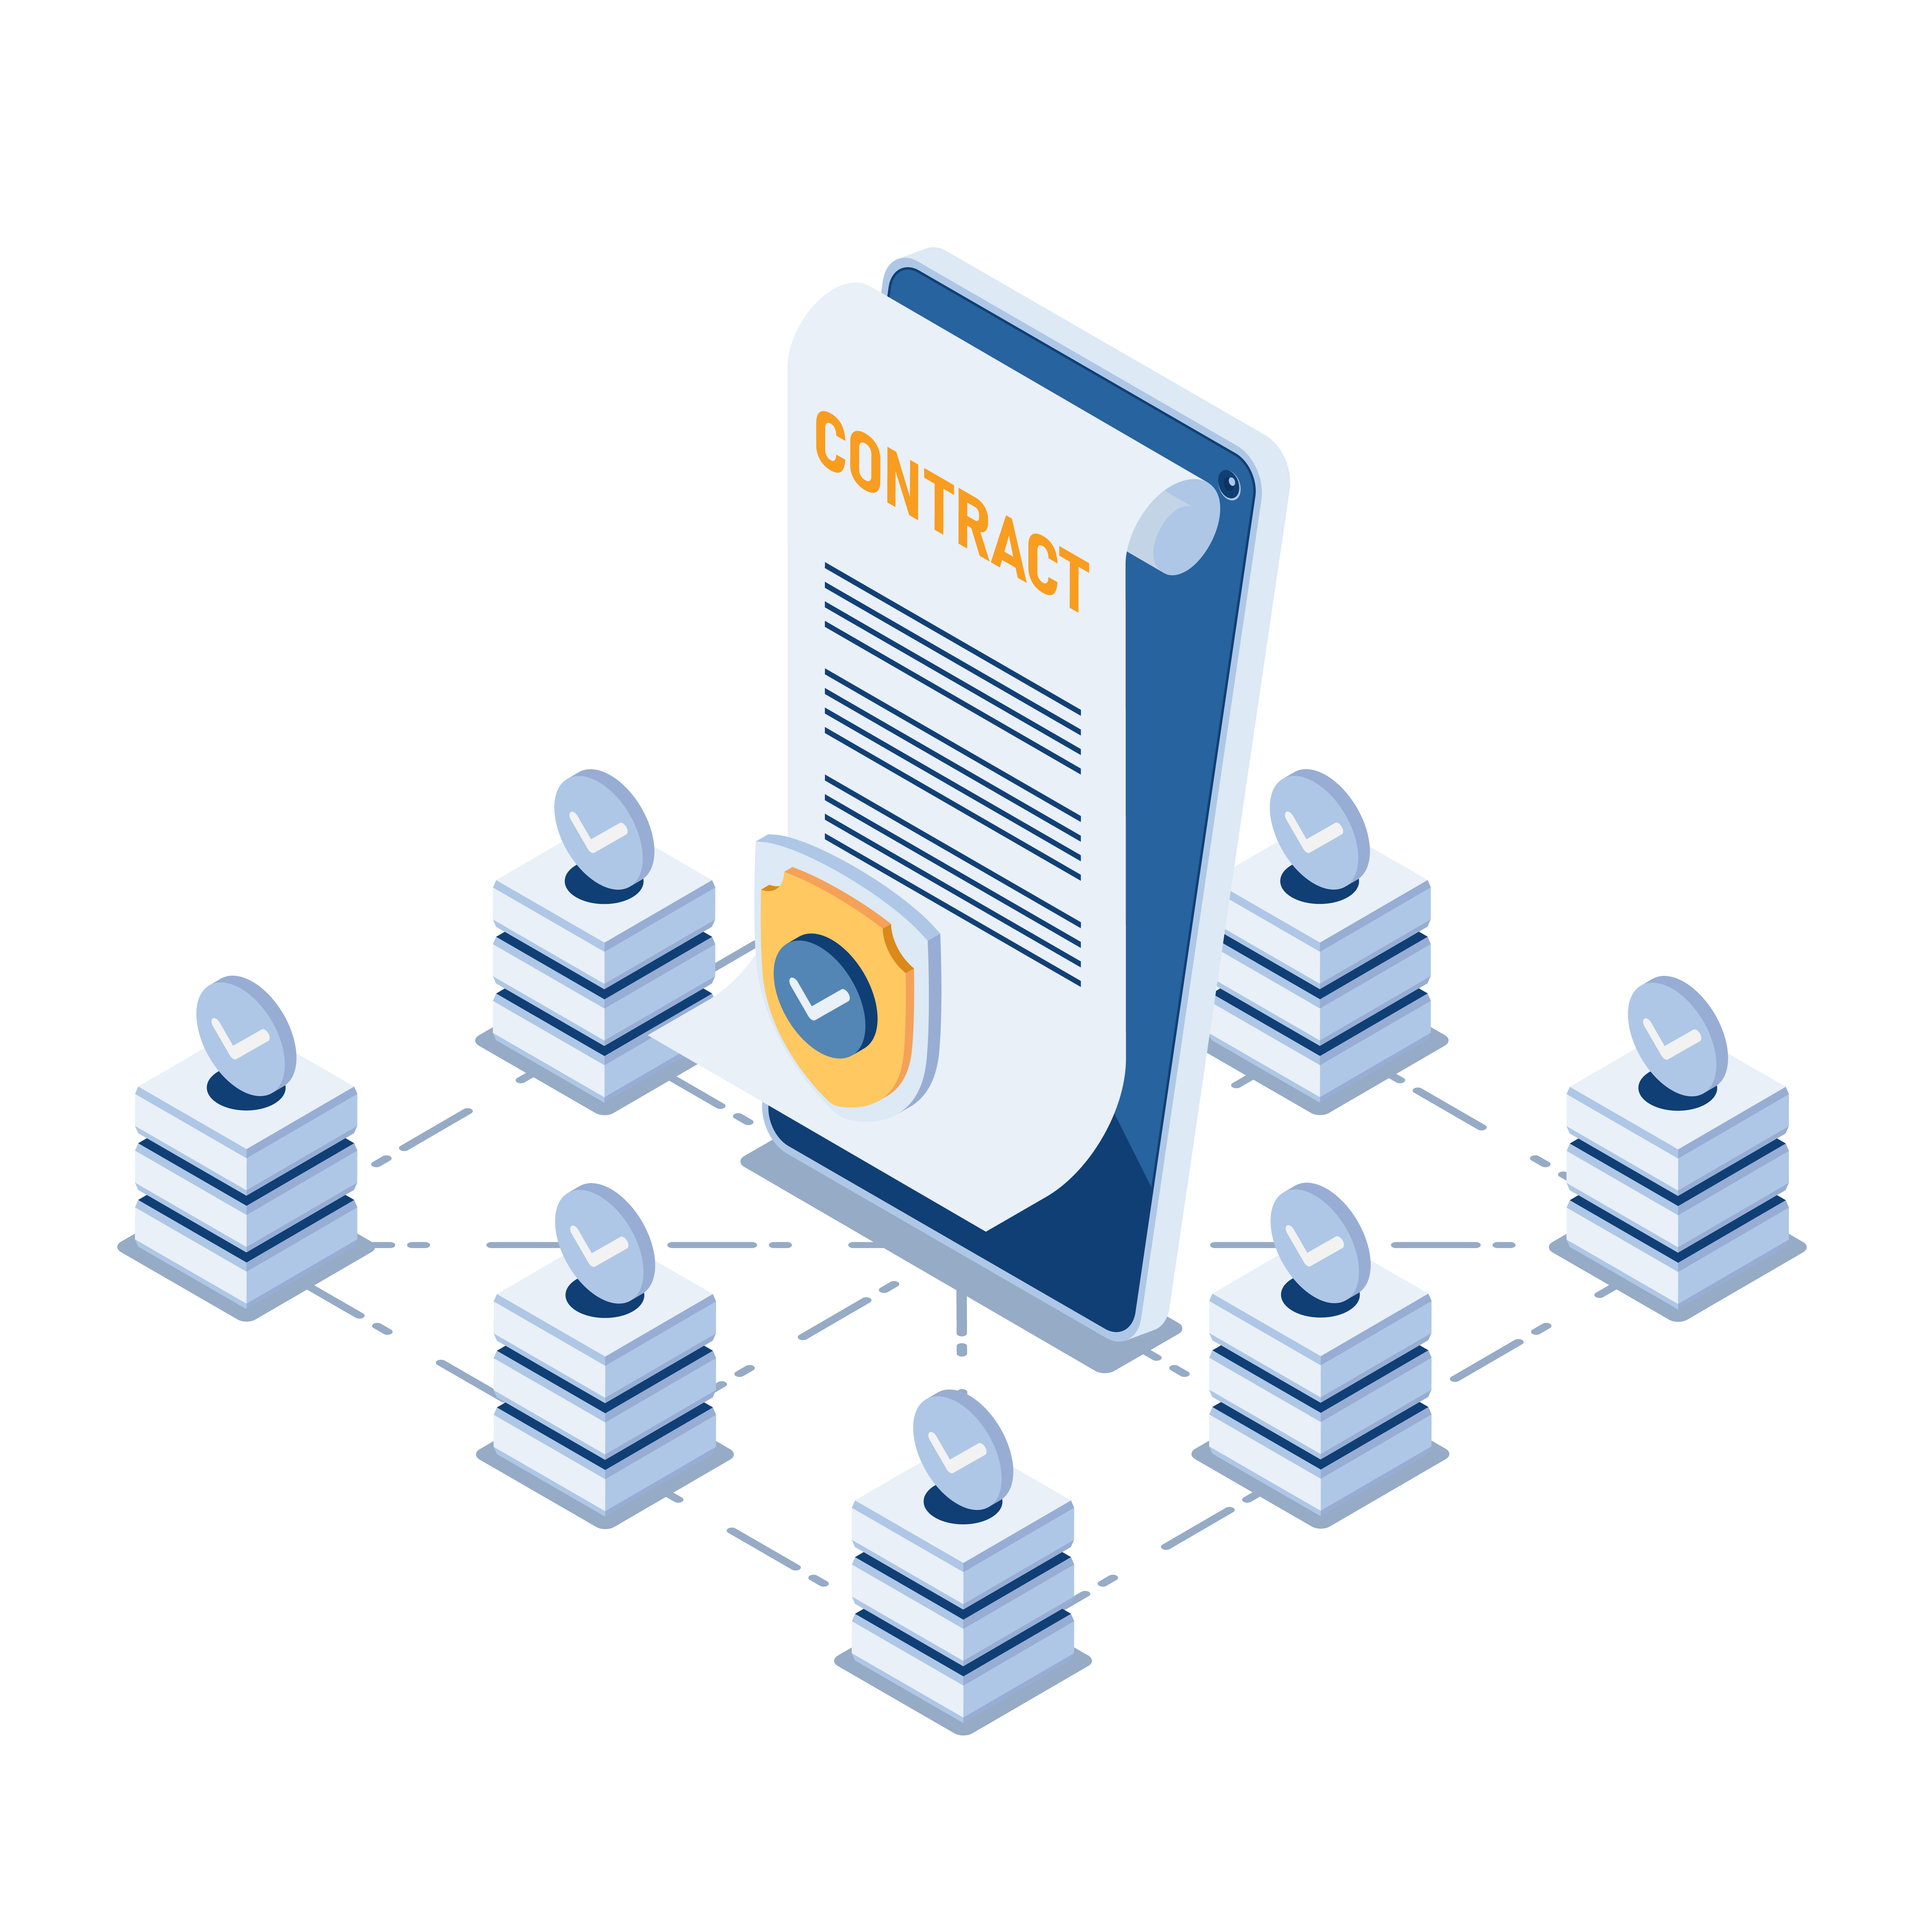
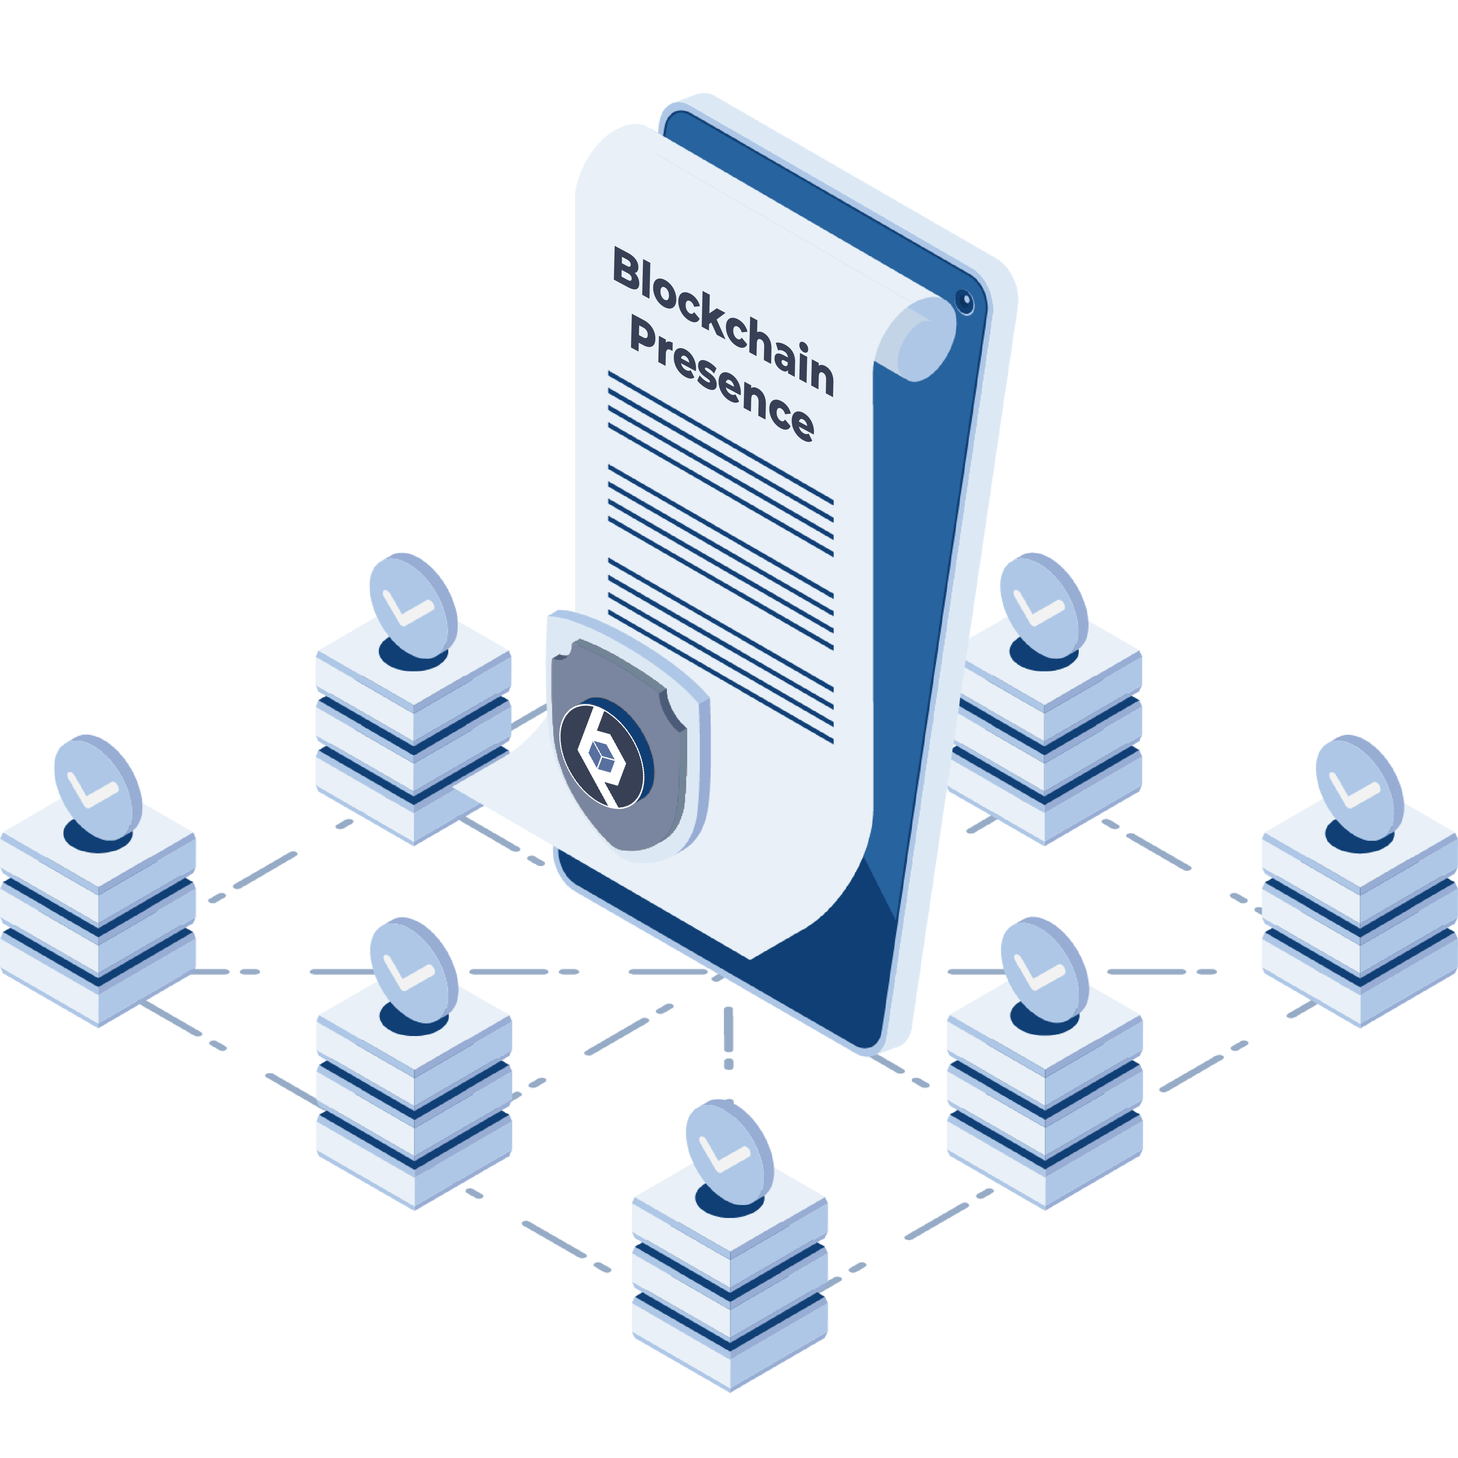
update for white theme, added downloads page and images

diff --git a/components/sections/home/Timeline.js b/components/sections/home/Timeline.js
@@ -4,7 +4,7 @@ const Timeline = (props) => {
   return (
     <>
       <div className="relative bg-[#5870a11c] h-full mx-auto mt-1 py-32">
-        <div class="custom-shape-divider-top-1650993069">
+        <div className="custom-shape-divider-top-1650993069">
           <svg
             data-name="Layer 1"
             xmlns="http://www.w3.org/2000/svg"
@@ -13,7 +13,7 @@ const Timeline = (props) => {
           >
             <path
               d="M1200 120L0 16.48 0 0 1200 0 1200 120z"
-              class="shape-fill"
+              className="shape-fill"
             ></path>
           </svg>
         </div>
@@ -43,13 +43,10 @@ const Timeline = (props) => {
                 animateIn="animate__fadeInRight"
               >
                 <h3 className="mb-3 text-xl font-bold text-gray-800">
-                  Founding of Blockchain Presence AG
+                  Research Project
                 </h3>
                 <p className="text-sm leading-snug tracking-wide text-gray-900 text-opacity-100">
-                  Blockchain Presence AG is a swiss corporation and an official
-                  spin-off of the University of Zurich, founded in December
-                  2020. We are located near the University of Zurich and the
-                  Crypto Valley Zug. // Dummy Text
+                  Research project started at the University of Zurich.{" "}
                 </p>
               </AnimationOnScroll>
             </div>
@@ -66,13 +63,10 @@ const Timeline = (props) => {
               className="order-1 md:w-5/12 mt-8 md:mt-0 px-6 py-4 bg-[#384056] rounded-lg shadow-xl"
             >
               <h3 className="mb-3 text-xl font-bold text-white">
-                Austrian Blockchain Award
+                Spin-Off of University of Zurich
               </h3>
               <p className="text-sm font-medium leading-snug tracking-wide text-white text-opacity-100">
-                Blockchain Presence AG is a swiss corporation and an official
-                spin-off of the University of Zurich, founded in December 2020.
-                We are located near the University of Zurich and the Crypto
-                Valley Zug. // Dummy Text
+                BCP becam an offical spin-off of the University of Zurich
               </p>
             </AnimationOnScroll>
           </div>
@@ -88,13 +82,10 @@ const Timeline = (props) => {
               animateIn="animate__fadeInRight"
             >
               <h3 className="mb-3 text-xl font-bold text-gray-800">
-                Dividends via Smart Contract
+                Austrian Blockchain Award
               </h3>
               <p className="text-sm leading-snug tracking-wide text-gray-900 text-opacity-100">
-                Blockchain Presence AG is a swiss corporation and an official
-                spin-off of the University of Zurich, founded in December 2020.
-                We are located near the University of Zurich and the Crypto
-                Valley Zug. // Dummy Text
+                BCP won the third place of the Austrian Blockchain Award{" "}
               </p>
             </AnimationOnScroll>
           </div>
@@ -112,18 +103,15 @@ const Timeline = (props) => {
             >
               {" "}
               <h3 className="mb-3 text-xl font-bold text-white">
-                Over 70 contributors
+                Dividends via Smart Contract
               </h3>
               <p className="text-sm font-medium leading-snug tracking-wide text-white text-opacity-100">
-                Blockchain Presence AG is a swiss corporation and an official
-                spin-off of the University of Zurich, founded in December 2020.
-                We are located near the University of Zurich and the Crypto
-                Valley Zug. // Dummy Text
+                First successful dividend payment via smart contract
               </p>
             </AnimationOnScroll>
           </div>
         </div>
-        <div class="custom-shape-divider-bottom-1650993162">
+        <div className="custom-shape-divider-bottom-1650993162">
           <svg
             data-name="Layer 1"
             xmlns="http://www.w3.org/2000/svg"
@@ -132,7 +120,7 @@ const Timeline = (props) => {
           >
             <path
               d="M1200 120L0 16.48 0 0 1200 0 1200 120z"
-              class="shape-fill"
+              className="shape-fill"
             ></path>
           </svg>
         </div>

diff --git a/pages/downloads.js b/pages/downloads.js
@@ -1,6 +1,7 @@
 import { useRouter } from "next/router";
 import TitleSection from "../components/TitleSection";
-
+import Image from "next/image";
+import Button from "../components/Button";
 const Downloads = () => {
   const router = useRouter();
 
@@ -10,6 +11,39 @@ const Downloads = () => {
         title="Downloads"
         subTitle="Here you can find additional information about us"
       />
+      <div className="my-20">
+        <div className="relative flex w-full h-[300px] space-x-20   justify-center ">
+          <div className="flex flex-col items-center justify-center w-1/4 space-y-10 font-bold text-center ">
+            <div>Download our Whitepaper</div>
+            <Button>Download</Button>
+          </div>
+          <div className="relative w-1/4 h-full">
+            <Image
+              src="/img/whitepaper.jpg"
+              alt=""
+              layout="fill"
+              objectFit="contain"
+            />
+          </div>
+        </div>
+        <div className="relative flex w-full h-[300px] space-x-20  justify-center mt-20 ">
+          <div className="relative w-1/4 h-full">
+            <Image
+              src="/img/report.jpg"
+              alt=""
+              layout="fill"
+              objectFit="contain"
+            />
+          </div>
+          <div className="flex flex-col items-center justify-center w-1/4 space-y-10 font-bold text-center ">
+            <div>
+              Read the report of our strategy team about the top smart contract
+              platforms
+            </div>
+            <Button>Download</Button>
+          </div>
+        </div>
+      </div>
     </>
   );
 };

diff --git a/components/sections/home/HowDoesItWork.js b/components/sections/home/HowDoesItWork.js
@@ -1,6 +1,8 @@
 import Image from "next/image";
-
+import Button from "../../Button";
+import { useRouter } from "next/router";
 const HowDoesItWork = (props) => {
+  const router = useRouter();
   return (
     <>
       <div className="bg-white">
@@ -12,13 +14,35 @@ const HowDoesItWork = (props) => {
             {props.subTitle}
           </p>
         </div>
-        <div className="relative flex items-center justify-center md:w-full w-4/5 m-auto  md:my-24 h-[300px]">
+        <div className="relative flex items-center justify-center  w-3/5 m-auto  md:mt-24 h-[300px]">
           <Image
             src="/img/senderreceiver.png"
             layout="fill"
             alt=""
             objectFit="contain"
           />
+        </div>
+        <div className="flex items-center justify-center">
+          <div className="relative flex items-center justify-center w-1/2  md:my-24 h-[500px]">
+            <Image
+              src="/img/usecases.png"
+              layout="fill"
+              alt=""
+              objectFit="contain"
+            />
+          </div>
+          <div className="flex flex-col items-center justify-center w-1/3 space-y-20">
+            <h1 className="pt-24 text-3xl font-bold text-center text-gray-800 sm:text-center sm:text-4xl">
+              There are various use cases for the BCP oracle
+            </h1>
+            <Button
+              onClick={() => {
+                router.push("/downloads");
+              }}
+            >
+              Learn More
+            </Button>
+          </div>
         </div>
       </div>
     </>

diff --git a/components/sections/home/Hero.js b/components/sections/home/Hero.js
@@ -8,7 +8,7 @@ const Hero = (props) => {
 
   return (
     <>
-      <div className="relative space-x-32 2xl:px-32  overflow-hidden shadow-xl h-[650px] md:h-[800px] 2xl:h-[850px]  p-6 pt-24 md:pt-32  sm:flex justify-center items-center herobackground">
+      <div className="relative space-x-32 2xl:px-32  overflow-hidden shadow-xl h-[650px] md:h-[800px] 2xl:h-[800px]  p-6 pt-24 md:pt-32  sm:flex justify-center items-center herobackground">
         <div className="md:w-[960px] mt-7 md:mt-0 ">
           <AnimationOnScroll animateOnce animateIn="animate__fadeInUp">
             <h1 className="flex flex-col  text-4xl font-semibold text-left sm:text-left md:text-[3rem]">
@@ -22,9 +22,9 @@ const Hero = (props) => {
                       Blockchain Presence is a <br className="lg:hidden" />
                     </span>{" "}
                     <span className="text-[#5870A1]">
-                      <div class="carousel h-12 inline-flex">
-                        <div class="change_outer mt-2">
-                          <div class=" change_inner">
+                      <div className="inline-flex h-12 carousel">
+                        <div className="mt-2 change_outer">
+                          <div className=" change_inner">
                             <div>Reliable</div>
                             <div>Convenient</div>
                             <div className="w-[350px]">Cost-Efficient</div>

diff --git a/components/Button.js b/components/Button.js
@@ -5,7 +5,7 @@ const Button = (props) => {
         <button
           onClick={props.onClick}
           type="button"
-          class="text-white shadow-xl bg-[#5870A1] hover:bg-gradient-to-br focus:ring-4 focus:outline-none focus:ring-blue-300 dark:focus:ring-blue-800 font-bold rounded-lg text-sm md:text-md px-5 py-2.5  md:px-7 md:py-3.5 text-center mr-2 mb-2"
+          className="text-white shadow-xl bg-[#5870A1] hover:bg-gradient-to-br focus:ring-4 focus:outline-none focus:ring-blue-300 dark:focus:ring-blue-800 font-bold rounded-lg text-sm md:text-md px-5 py-2.5  md:px-7 md:py-3.5 text-center mr-2 mb-2"
         >
           {props.children}
         </button>
@@ -13,7 +13,7 @@ const Button = (props) => {
         <button
           onClick={props.onClick}
           type="button"
-          class=" bg-white border shadow-xl border-[#5870A1] hover:bg-gradient-to-br focus:ring-4 focus:outline-none focus:ring-blue-300 dark:focus:ring-blue-800 font-bold rounded-lg text-sm md:text-md px-5 py-2.5 md:px-7 md:py-3.5 text-center mr-2 mb-2"
+          className=" bg-white border shadow-xl border-[#5870A1] hover:bg-gradient-to-br focus:ring-4 focus:outline-none focus:ring-blue-300 dark:focus:ring-blue-800 font-bold rounded-lg text-sm md:text-md px-5 py-2.5 md:px-7 md:py-3.5 text-center mr-2 mb-2"
         >
           {props.children}
         </button>

diff --git a/components/sections/application/StudentExperience.js b/components/sections/application/StudentExperience.js
@@ -3,21 +3,18 @@ import Image from "next/image";
 const StudentExperience = (props) => {
   return (
     <>
-      <div
-        id="earn"
-        className="relative p-6 py-20 pb-28 sm:flex sm:justify-center sm:space-x-32 sm:items-center"
-      >
+      <div className="relative p-6 py-20 pb-28 sm:flex sm:justify-center sm:items-center">
         <div className="">
           <h1 className="text-3xl font-bold text-center text-gray-800 sm:text-center sm:text-4xl">
             {props.title}
           </h1>
           <div className="items-center justify-center mt-20 md:flex px-14 ">
-            <div className="md:w-[350px] w-[200px] h-[200px] m-auto shadow-xl md:h-[350px] rounded-full overflow-hidden flex relative justify-center items-center">
+            <div className="md:w-[300px] w-[200px] h-[200px] m-auto shadow-xl md:h-[300px] rounded-full overflow-hidden flex relative justify-center items-center">
               <Image
-                src="/img/tamara.png"
+                src="/img/julia.jpg"
                 alt=""
                 layout="fill"
-                objectFit="cover"
+                objectFit="contain"
               />
             </div>
             <div className="w-full m-auto lg:w-1/2">

diff --git a/pages/student-internship.js b/pages/student-internship.js
@@ -26,7 +26,15 @@ students and contributing to this project."
       />
       <StudentExperience
         title="Student Experience"
-        description="Julia wrote her bachelor thesis in the framework of BCP in 20XX. Now she is working at Bitcoin Suisse."
+        description={`“I joined BCP in December 2020 to write my
+        bachelor’s thesis in the Marketing
+        department. Being 9 months at BCP I have
+        built up important knowledge about the
+        blockchain industry and met great people.
+        The experience I have gathered at BCP
+        helped me to get a position at Bitcoin Suisse
+        where I work until today.”.
+        `}
       />
     </>
   );
